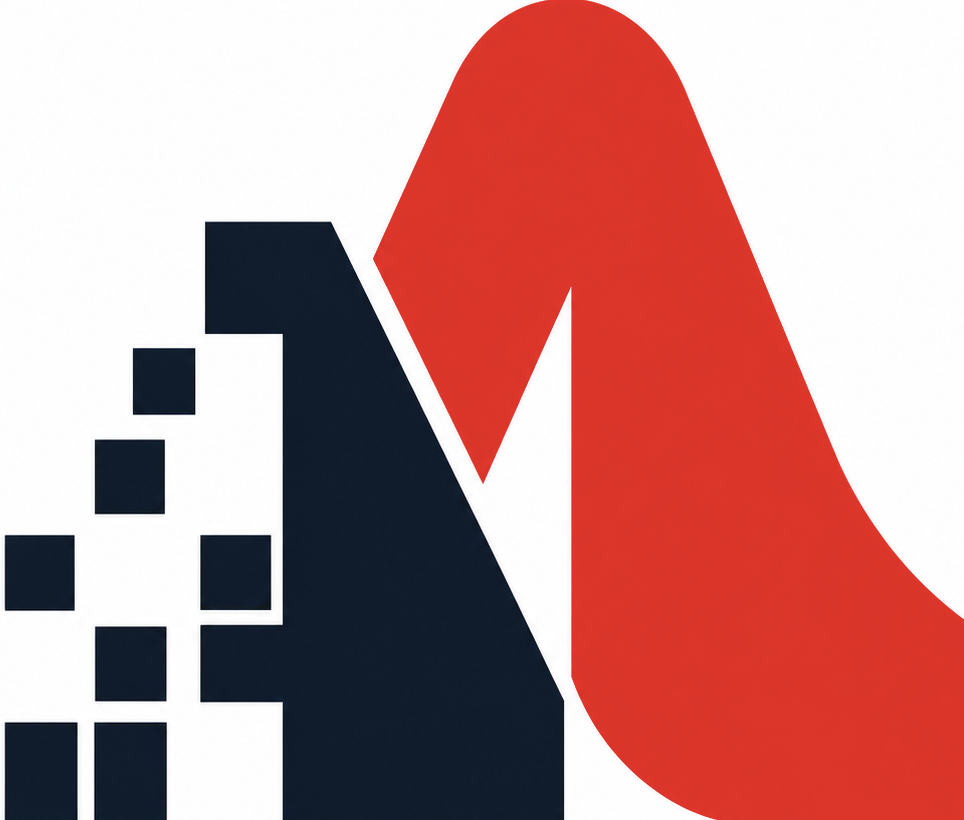
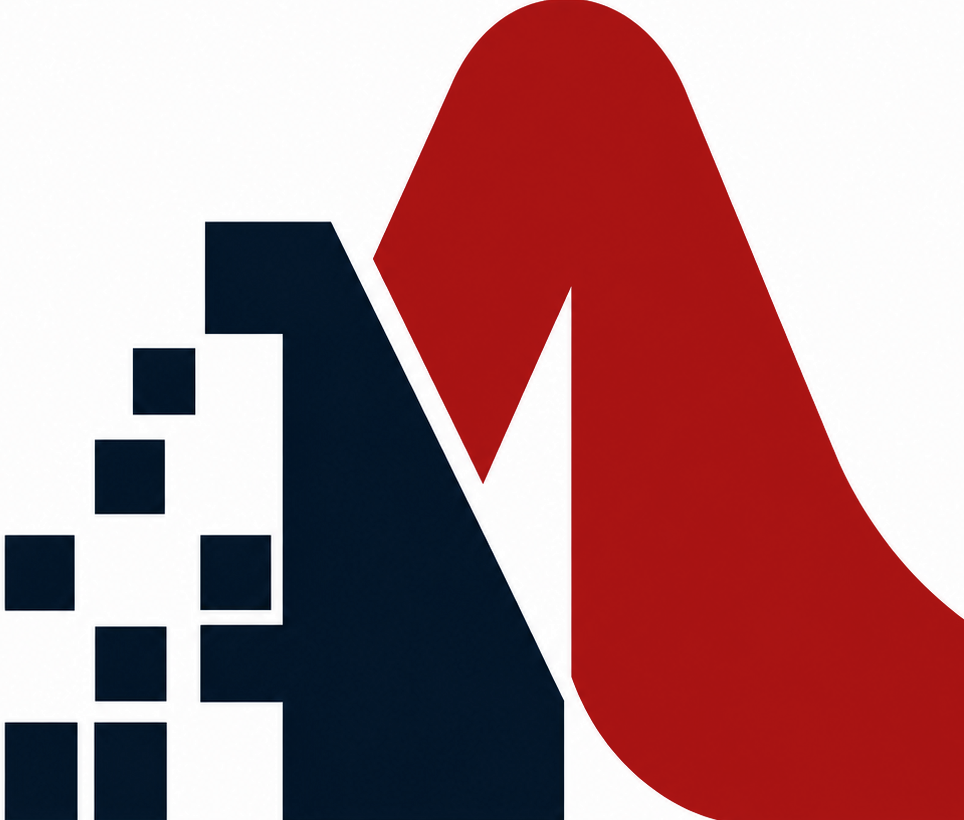
art work uses consistent red

diff --git a/web/public/sw.js b/web/public/sw.js
@@ -17,10 +17,13 @@
  *                                        produces new URLs, safe to keep)
  *   - activate                        -> delete caches from older CACHE_VERSIONs
  *
- * Bump CACHE_VERSION on any change to the caching behavior to evict old caches.
+ * Bump CACHE_VERSION on any change to the caching behavior to evict old caches,
+ * and also when a file served at a stable URL is replaced in place. The icons
+ * are the case that arises: they are not content hashed, so a returning visitor
+ * keeps serving the previous artwork out of the cache until the version moves.
  */
 
-const CACHE_VERSION = 'agg-pwa-v1';
+const CACHE_VERSION = 'agg-pwa-v2';
 
 self.addEventListener('install', () => {
     // Take over as soon as installed; we don't precache, so nothing to wait on.
